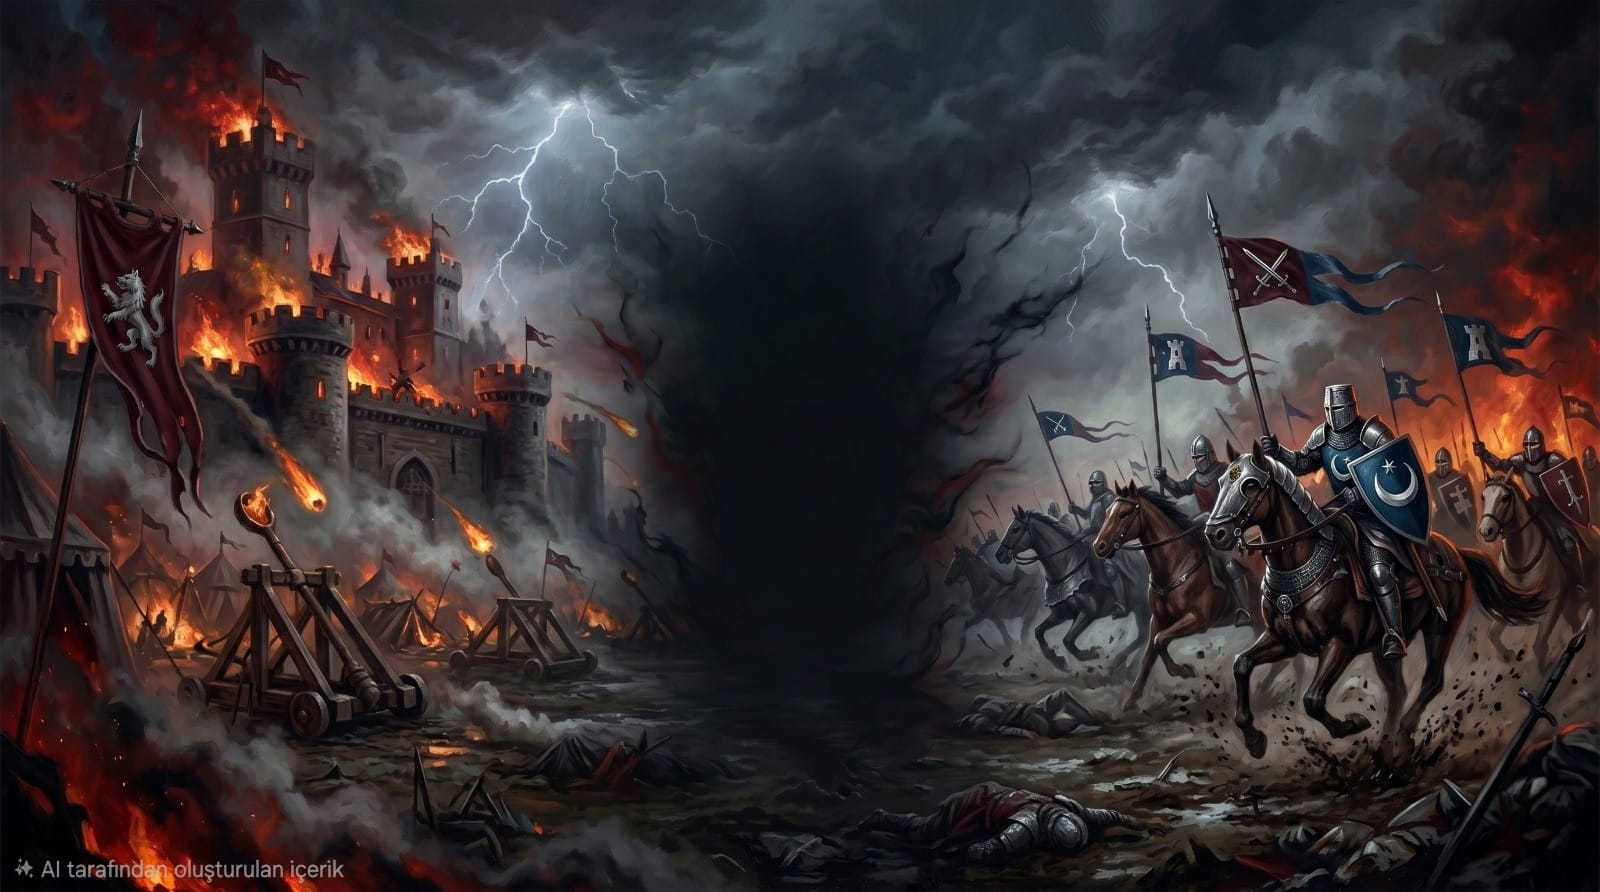
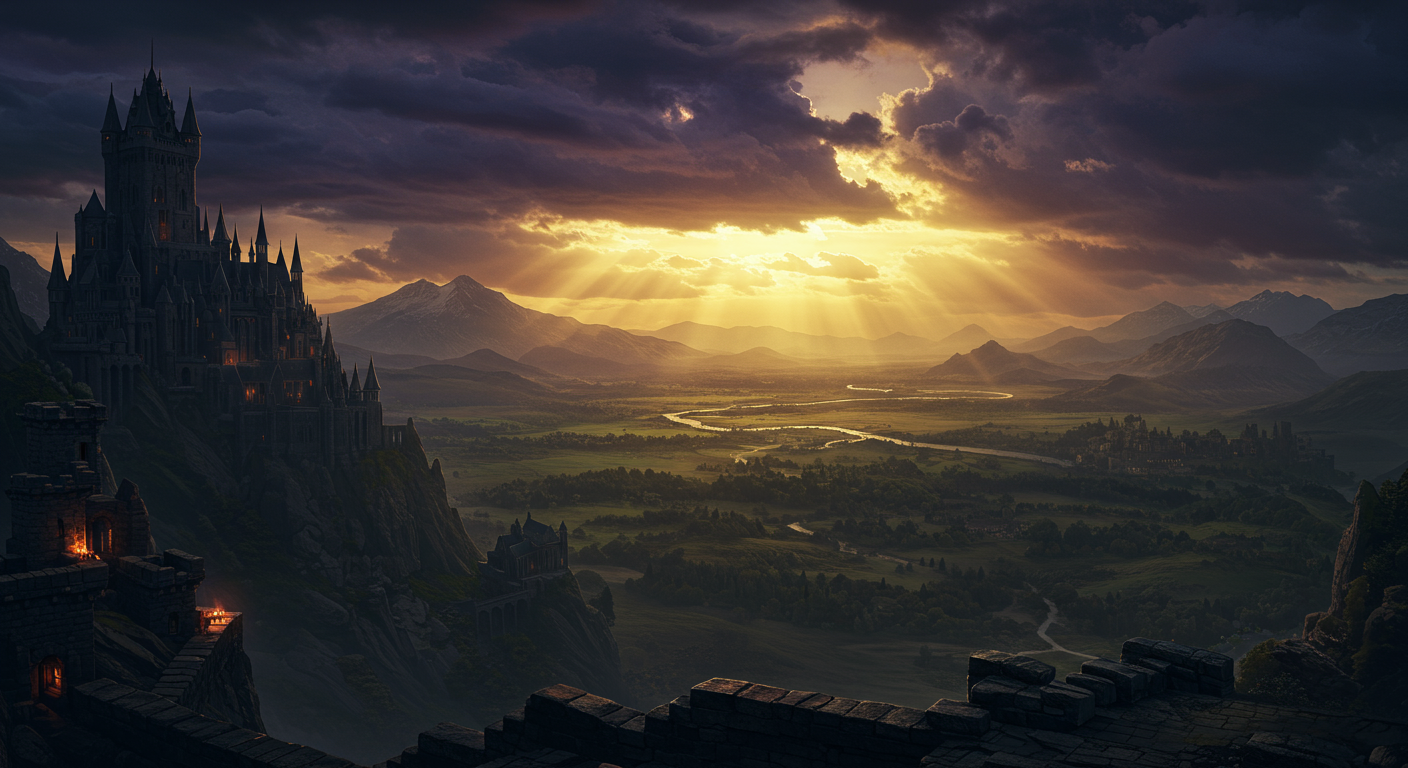
Finish Hogwarts cleanup and update onboarding background.
Rename memory UUID namespace to valdenmoor, make player_house optional in world sim, and refresh onboarding_bg.png.

diff --git a/backend/services/memory_service.py b/backend/services/memory_service.py
@@ -23,7 +23,7 @@ def _normalize_memory_owner_id(session_id: str) -> str:
     try:
         return str(uuid.UUID(session_id))
     except Exception:
-        return str(uuid.uuid5(uuid.NAMESPACE_URL, f"hpgwarts-memory:{session_id}"))
+        return str(uuid.uuid5(uuid.NAMESPACE_URL, f"valdenmoor-memory:{session_id}"))
 
 
 def _extract_text_from_response(event: dict[str, Any]) -> str:

diff --git a/backend/services/world_simulation.py b/backend/services/world_simulation.py
@@ -196,7 +196,7 @@ def check_world_events(session_id: str) -> dict | None:
 async def run_point_simulation(
     session_id: str,
     conversation: list,
-    player_house: str,
+    player_house: str = "",
     week: int = 1,
     day: int = 1,
 ) -> dict:
